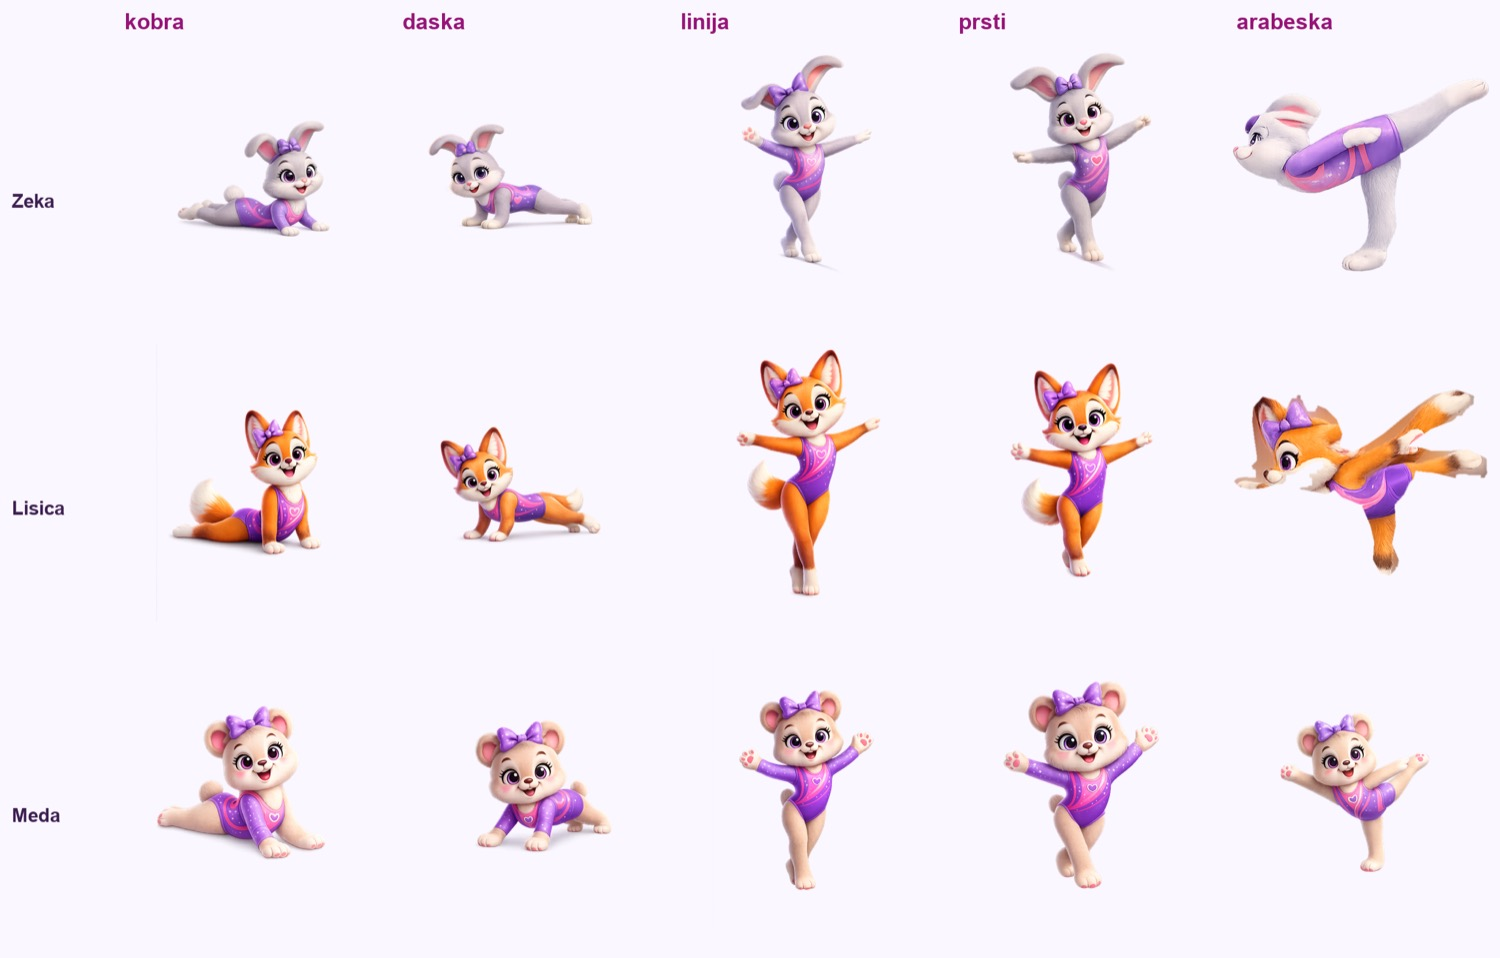
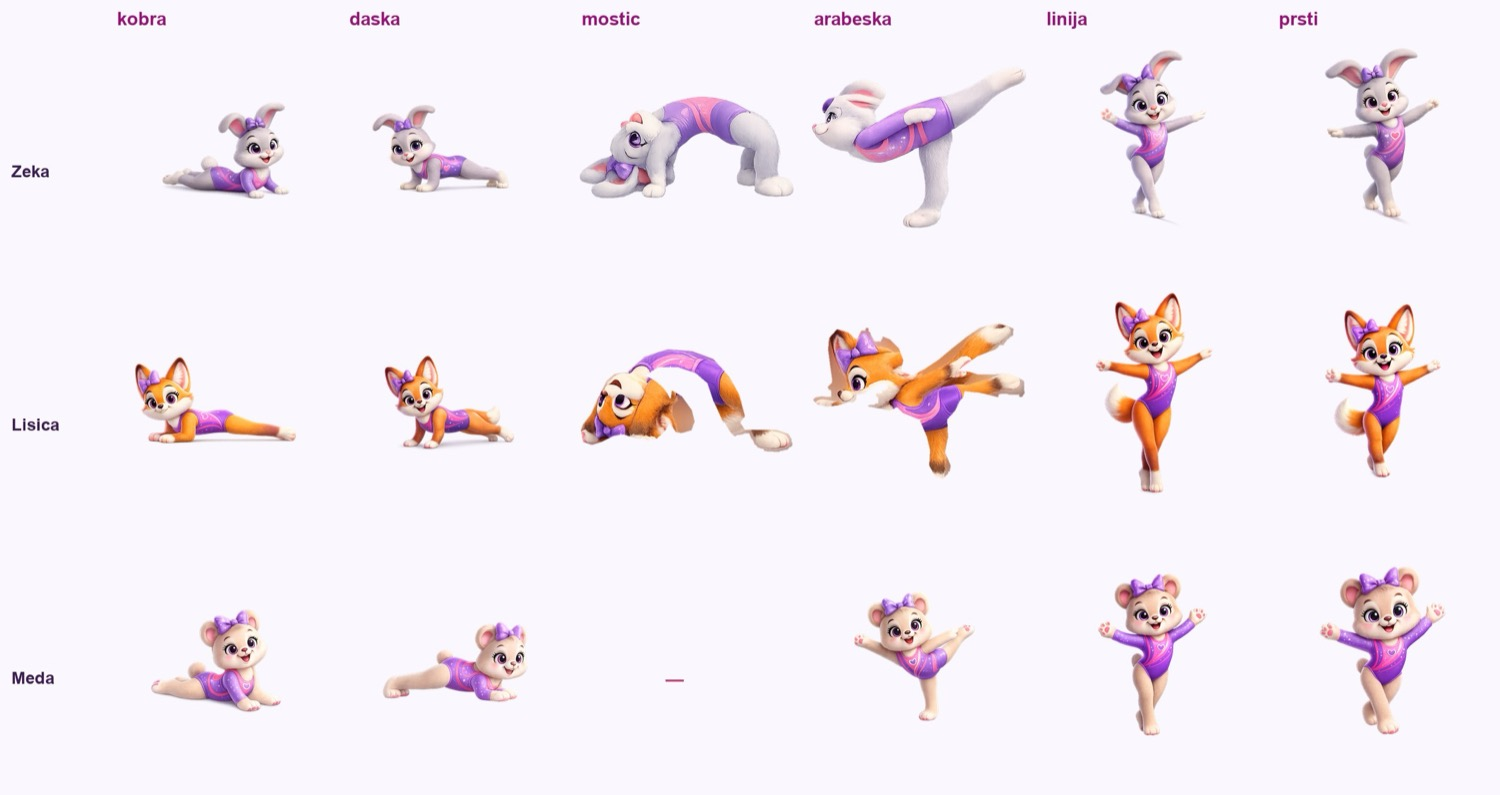
Third round: keep five, discard eleven
Of the eighteen new pictures, five were right: the fox's hero and portret now
have clean cutouts, and the fox's kobra, the bear's kobra and the bear's daska
are the right pose. The other eleven came back as a pose the model already
knew — a downward dog for the bridge, a one-leg balance for walking a line.
Parked under odbaceno/ rather than deleted.

The bridge, the arabesque, walking a line and tiptoes have now failed twice
from a text description each. The rabbit has the bridge and the arabesque
right, so STILL-NEEDED.md switches approach: attach the rabbit's picture as a
pose reference next to the character references, one pose per prompt, and say
which is which.

For linija and prsti it recommends fixing only linija. The problem is not that
they are imprecise, it is that the two exercises are the same picture.

Claude-Session: https://claude.ai/code/session_01SNYpafZCZg3ZNzoYw12rcy

diff --git a/Mascots/STILL-NEEDED.md b/Mascots/STILL-NEEDED.md
@@ -1,135 +1,168 @@
 # What still needs generating
 
-Everything outstanding, in three prompts — one per mascot. Copy a block, attach
-that mascot's reference images, send. Filenames to save under are listed below
-each block; overwrite the existing file where there is one.
+Round three. What arrived last time and what it fixed:
 
-This covers both the pictures that do not exist yet **and** the ones that exist
-but are wrong. `sumnjive.jpg` next to this file shows the wrong ones side by
-side if you want to see why.
+- **Fox `hero` and `portret`** — clean cutouts now. Fixed. ✅
+- **Fox `kobra`, bear `kobra`, bear `daska`** — right pose, clean cutout. ✅
+- Everything else in that batch came back as a pose the model already knew
+  rather than the one asked for, so eleven of eighteen files were discarded.
+  They are parked in `Mascots/<Species>/odbaceno/` if you want to look.
 
-## What is wrong, and why
+`sumnjive.jpg` next to this file shows the current state of the six poses that
+have been trouble, one row per mascot.
 
-| Picture | Problem | Rabbit | Fox | Bear |
-| --- | --- | :---: | :---: | :---: |
-| `mostic` | never generated for the bear; the fox's has a ragged cutout | ok | redo | **new** |
-| `cucanj` | never generated for the bear | ok | ok | **new** |
-| `kobra` | she is **sitting up** in all three. Cobra is lying on the tummy with the chest lifted and the hips down | redo | redo | redo |
-| `linija` | all three are **standing on one leg**. This one is walking heel-to-toe along a line | redo | redo | redo |
-| `prsti` | same — a one-leg balance instead of **standing on tiptoes on both feet**. As they are, `linija` and `prsti` are nearly the same picture | redo | redo | redo |
-| `arabeska` | the bear's leg goes out **sideways** with the body upright. The rabbit's is right — copy that shape | ok | redo (cutout) | redo |
-| `pretklon` | the fox is curled up with her eyes closed, reading as asleep rather than folding forward | ok | redo | ok |
-| `hero`, `portret` | the fox's two have the ragged cutout | ok | redo | ok |
-| `daska` | all three rest on **straight front legs**, not forearms. It still reads as a plank — lowest priority, only if you are generating anyway | optional | optional | optional |
+## The one thing to change this time
 
-**The fox's five newest files** (`mostic`, `arabeska`, `pretklon`, `hero`,
-`portret`) have a blocky patch of the old background baked into the
-transparency — it shows as a brown halo behind her, obvious at hero size. That
-is why the fox's block below spells the cutout out.
+Four poses have now failed twice from a text description: the **bridge**, the
+**arabesque**, **walking a line** and **tiptoes**. The model substitutes a pose
+it knows — usually a downward-dog or a one-leg balance.
 
-Everything not in this table is done and good.
+**The rabbit has the bridge and the arabesque right.** So stop describing them
+and show them instead: attach the rabbit's picture as a *pose* reference
+alongside the character references, and say which is which. That is the whole
+trick, and it is why the blocks below are one pose at a time rather than a
+batch.
 
 ---
 
-## RABBIT — 3 (or 4 with the optional one)
+## 1. FOX — bridge
 
-Attach: `rabbit-sit.png`, `rabbit-arabeska.png`, `rabbit-spaga.png`
+Attach **two** things: `Mascots/Rabbit/rabbit-mostic.png` (the pose) and
+`Mascots/Fox/fox-sit.png` + `fox-zvezdice.png` (the character).
 
 ```
-Continue the gymnastics mascot asset project. One mascot and one pose per image, with no text, table, grid, labels, extra poses, or other characters. Preserve the exact face, fur, purple bow, purple-and-pink sparkly leotard, proportions, and 3D style.
+Two kinds of reference are attached. The FIRST image shows the POSE I want, on a different character. The OTHER images show the CHARACTER I want.
 
-The background must be FULLY transparent with a clean edge: no leftover patches of background, no rectangular blocks, no halo or fringe around the fur, nothing behind the character at all.
+Draw the fox from the character references in exactly the pose of the first image: a gymnastics backbend bridge — lying face up, tummy pointing at the ceiling, body arched high off the floor, all four paws flat on the floor, head tilted back, seen from the side. Not a downward dog, not face down.
 
-Using the attached reference images, create 4 separate images of the same character — a 3D Pixar-style cartoon bunny gymnast: white and pale lavender fur, long ears with pink insides, large violet eyes with long lashes, small pink nose, pink paw pads, a purple glitter bow on one ear, and a purple and pink gymnastics leotard with a heart on the chest.
-
-Same style, colours and proportions as the references. Full body in frame, head to toe, nothing cropped, generous margin all round. One pose per image:
-
-1. Cobra stretch: lying flat on her TUMMY, hips and legs staying down on the floor, chest lifted up on straight front paws, back gently arched, head up looking forward, side view.
-2. Walking heel-to-toe along a straight line on the floor: BOTH feet on the ground, one placed directly in front of the other, both arms stretched out sideways for balance, looking down at the line, front view.
-3. Standing on tiptoes on BOTH feet at once, heels lifted high off the floor, legs straight and together, both arms stretched out to the sides, chin up, front view.
-4. Forearm plank: resting on BOTH FOREARMS flat on the floor and on her toes, elbows under the shoulders, body in one straight line from head to heels, hips level, side view.
+Keep her exact face, orange fur with the white muzzle and white-tipped tail, purple bow and purple-and-pink sparkly leotard, same 3D Pixar style. Full body in frame, nothing cropped, generous margin. Fully transparent background with a clean edge — no leftover patches, no halo, nothing behind her.
 ```
 
-Save as: `rabbit-kobra.png`, `rabbit-linija.png`, `rabbit-prsti.png`,
-`rabbit-daska.png`
+Save as `fox-mostic.png` (overwrite).
+
+## 2. FOX — arabesque
+
+Attach `Mascots/Rabbit/rabbit-arabeska.png` (pose) + `fox-sit.png`,
+`fox-zvezdice.png` (character). Same wording, with the pose line:
+
+```
+Two kinds of reference are attached. The FIRST image shows the POSE I want, on a different character. The OTHER images show the CHARACTER I want.
+
+Draw the fox from the character references in exactly the pose of the first image: an arabesque — balancing on one straight leg with the other leg stretched straight out BEHIND her at hip height, body tipped forward almost horizontal, both arms out to the sides. Not a leg lifted to the side, not standing upright.
+
+Keep her exact face, orange fur with the white muzzle and white-tipped tail, purple bow and purple-and-pink sparkly leotard, same 3D Pixar style. Full body in frame, nothing cropped, generous margin. Fully transparent background with a clean edge — no leftover patches, no halo, nothing behind her.
+```
+
+Save as `fox-arabeska.png` (overwrite).
+
+## 3. FOX — seated forward fold
+
+No good reference exists for this one; the current file is her curled up asleep
+and has the ragged cutout. Attach `fox-sit.png` and `fox-spaga.png`.
+
+```
+Using the attached reference images, draw the same fox cub character sitting upright on the floor with BOTH LEGS STRAIGHT OUT IN FRONT of her, eyes open and awake, folding forward from the hips with both paws reaching toward her toes, seen from the side. She is sitting up and bending forward — not lying down, not curled up, not asleep.
+
+Keep her exact face, orange fur with the white muzzle and white-tipped tail, purple bow and purple-and-pink sparkly leotard, same 3D Pixar style. Full body in frame, nothing cropped, generous margin. Fully transparent background with a clean edge — no leftover patches, no halo, nothing behind her.
+```
+
+Save as `fox-pretklon.png` (overwrite).
 
 ---
 
-## FOX — 8 (or 9 with the optional one)
+## 4. BEAR — bridge
 
-Attach: `fox-sit.png`, `fox-zvezdice.png`, `fox-spaga.png` — the **older**
-files, which are cut out cleanly, not the five being replaced.
+Attach `Mascots/Rabbit/rabbit-mostic.png` (pose) + `bear-sit.png`,
+`bear-zvezdice.png` (character).
 
 ```
-Continue the gymnastics mascot asset project. One mascot and one pose per image, with no text, table, grid, labels, extra poses, or other characters. Preserve the exact face, fur, purple bow, purple-and-pink sparkly leotard, proportions, and 3D style.
+Two kinds of reference are attached. The FIRST image shows the POSE I want, on a different character. The OTHER images show the CHARACTER I want.
 
-The background must be FULLY transparent with a clean edge: no leftover patches of background, no rectangular blocks, no halo or fringe around the fur, nothing behind the character at all. This matters — the previous batch came back with pieces of the old background still attached.
+Draw the bear cub from the character references in exactly the pose of the first image: a gymnastics backbend bridge — lying face up, tummy pointing at the ceiling, body arched high off the floor, all four paws flat on the floor, head tilted back, seen from the side. Not a downward dog, not face down.
 
-Using the attached reference images, create 9 separate images of the same character — a 3D Pixar-style cartoon fox cub gymnast: orange fur with a white muzzle, white chest and a white-tipped bushy tail, large violet eyes with long lashes, pink paw pads, a purple glitter bow between her ears, and a purple and pink gymnastics leotard with a heart on the chest.
-
-Same style, colours and proportions as the references. Full body in frame, head to toe, nothing cropped, generous margin all round. One pose per image:
-
-1. Gymnastics backbend bridge: lying face up, tummy pointing at the ceiling, body arched high off the floor, all four paws flat on the floor, head tilted back, side view.
-2. Arabesque: balancing on one straight leg, the other leg stretched straight out BEHIND her at hip height, body tipped forward, both arms out to the sides, side view.
-3. Seated forward fold: sitting upright with both legs straight out in front, eyes OPEN and awake, folding forward from the hips, both paws reaching toward her toes, side view.
-4. Standing proudly facing the camera, one arm raised high in a happy wave, the other on her hip, chin up, big warm smile, tall portrait framing with room above her head.
-5. Head and shoulders only, facing the camera straight on, big friendly smile, ears fully in frame, square framing.
-6. Cobra stretch: lying flat on her TUMMY, hips and legs staying down on the floor, chest lifted up on straight front paws, back gently arched, head up looking forward, side view.
-7. Walking heel-to-toe along a straight line on the floor: BOTH feet on the ground, one placed directly in front of the other, both arms stretched out sideways for balance, looking down at the line, front view.
-8. Standing on tiptoes on BOTH feet at once, heels lifted high off the floor, legs straight and together, both arms stretched out to the sides, chin up, front view.
-9. Forearm plank: resting on BOTH FOREARMS flat on the floor and on her toes, elbows under the shoulders, body in one straight line from head to heels, hips level, side view.
+Keep her exact face, cream and beige fur, pink inner ears and paw pads, purple bow and purple-and-pink sparkly leotard, same 3D Pixar style. Full body in frame, nothing cropped, generous margin. Fully transparent background with a clean edge.
 ```
 
-Save as, in order: `fox-mostic.png`, `fox-arabeska.png`, `fox-pretklon.png`,
-`fox-hero.png`, `fox-portret.png`, `fox-kobra.png`, `fox-linija.png`,
-`fox-prsti.png`, `fox-daska.png`
+Save as `bear-mostic.png` (new).
+
+## 5. BEAR — arabesque
+
+Attach `Mascots/Rabbit/rabbit-arabeska.png` (pose) + `bear-sit.png`,
+`bear-zvezdice.png` (character).
+
+```
+Two kinds of reference are attached. The FIRST image shows the POSE I want, on a different character. The OTHER images show the CHARACTER I want.
+
+Draw the bear cub from the character references in exactly the pose of the first image: an arabesque — balancing on one straight leg with the other leg stretched straight out BEHIND her at hip height, body tipped forward almost horizontal, both arms out to the sides. Not a leg lifted to the side, not standing upright.
+
+Keep her exact face, cream and beige fur, pink inner ears and paw pads, purple bow and purple-and-pink sparkly leotard, same 3D Pixar style. Full body in frame, nothing cropped, generous margin. Fully transparent background with a clean edge.
+```
+
+Save as `bear-arabeska.png` (overwrite).
+
+## 6. BEAR — half squat
+
+Attach `bear-sit.png`, `bear-zvezdice.png`.
+
+```
+Using the attached reference images, draw the same bear cub character standing in a HALF SQUAT: feet apart, knees clearly bent as if sitting on an invisible chair, back straight, and BOTH ARMS STRETCHED STRAIGHT FORWARD toward the camera at shoulder height, parallel to the floor. Arms forward, not up, not out to the sides.
+
+Keep her exact face, cream and beige fur, pink inner ears and paw pads, purple bow and purple-and-pink sparkly leotard, same 3D Pixar style. Full body in frame, nothing cropped, generous margin. Fully transparent background with a clean edge.
+```
+
+Save as `bear-cucanj.png` (new).
 
 ---
 
-## BEAR — 6 (or 7 with the optional one)
+## 7. Walking the line, and tiptoes — all three
 
-Attach: `bear-sit.png`, `bear-zvezdice.png`, `bear-macka.png`
+These two have failed twice for every mascot, and there is no correct picture
+anywhere to use as a pose reference. Right now `linija` and `prsti` are the same
+one-leg balance in all three sets, which is the real problem — not that they are
+imprecise, but that the two exercises look identical.
+
+**My suggestion: fix only `linija`, and leave `prsti` alone.** A one-leg
+balance is a perfectly reasonable picture for "balance on tiptoes" to a
+seven-year-old; two identical pictures for two different exercises is what
+looks wrong.
+
+One prompt per mascot, swapping in that mascot's own description:
 
 ```
-Continue the gymnastics mascot asset project. One mascot and one pose per image, with no text, table, grid, labels, extra poses, or other characters. Preserve the exact face, fur, purple bow, purple-and-pink sparkly leotard, proportions, and 3D style.
+Using the attached reference images, draw the same character walking along a straight line marked on the floor, seen from the FRONT. Both feet are flat on the ground, one placed directly in front of the other, heel touching toe, both standing on the same straight line. Both arms are stretched out sideways at shoulder height for balance. She is looking down at the line, concentrating, with a small smile.
 
-The background must be FULLY transparent with a clean edge: no leftover patches of background, no rectangular blocks, no halo or fringe around the fur, nothing behind the character at all.
+Both feet on the floor — this is walking, not balancing on one leg.
 
-Using the attached reference images, create 7 separate images of the same character — a 3D Pixar-style cartoon bear cub gymnast: cream and beige fur, rounded ears with pink inner ears, large violet eyes with long lashes, pink paw pads, a purple glitter bow on one ear, and a purple and pink gymnastics leotard with a heart on the chest.
-
-Same style, colours and proportions as the references. Full body in frame, head to toe, nothing cropped, generous margin all round. One pose per image:
-
-1. Gymnastics backbend bridge: lying face up, tummy pointing at the ceiling, body arched high off the floor, all four paws flat on the floor, head tilted back, side view.
-2. Half squat: standing, feet apart, knees bent, back straight, both arms stretched straight FORWARD at shoulder height, facing the camera.
-3. Arabesque: balancing on one straight leg, the other leg stretched straight out BEHIND her at hip height — not out to the side — with the body tipped forward and both arms out to the sides, side view.
-4. Cobra stretch: lying flat on her TUMMY, hips and legs staying down on the floor, chest lifted up on straight front paws, back gently arched, head up looking forward, side view.
-5. Walking heel-to-toe along a straight line on the floor: BOTH feet on the ground, one placed directly in front of the other, both arms stretched out sideways for balance, looking down at the line, front view.
-6. Standing on tiptoes on BOTH feet at once, heels lifted high off the floor, legs straight and together, both arms stretched out to the sides, chin up, front view.
-7. Forearm plank: resting on BOTH FOREARMS flat on the floor and on her toes, elbows under the shoulders, body in one straight line from head to heels, hips level, side view.
+Keep her exact face, fur, purple bow and purple-and-pink sparkly leotard, same 3D Pixar style. Full body in frame, nothing cropped, generous margin. Fully transparent background with a clean edge.
 ```
 
-Save as, in order: `bear-mostic.png`, `bear-cucanj.png`, `bear-arabeska.png`,
-`bear-kobra.png`, `bear-linija.png`, `bear-prsti.png`, `bear-daska.png`
+Save as `rabbit-linija.png` / `fox-linija.png` / `bear-linija.png` (overwrite).
 
 ---
 
-## If a result comes back wrong
+## Where everything stands
 
-- **On a background instead of transparent, or with a patch of it still stuck
-  to her:** *"Same images but with a fully transparent background — PNG with
-  alpha, nothing behind the character at all, no leftover patches, clean edge
-  around the fur."*
-- **Cut off at the edge:** *"Zoom out — the whole body from ears to toes must be
-  inside the frame with a margin."*
-- **Drifting off-model:** attach one more reference from the same folder and say
-  *"keep the face, fur colour and leotard exactly as in the references."*
-- **Cobra keeps coming back sitting up:** *"She is lying face down on the floor.
-  Her hips and back legs stay flat on the ground; only her chest and head lift."*
+| | Poses | States | What is left |
+| --- | --- | --- | --- |
+| Rabbit | 19/19 | 5/5 | `linija` only, and only for the reason above |
+| Fox | 19/19 | 5/5 | `mostic`, `arabeska`, `pretklon` — right pose in two of them, but ragged cutouts; plus `linija` |
+| Bear | 17/19 | 5/5 | `mostic`, `cucanj` missing; `arabeska` wrong pose; plus `linija` |
+
+Nothing here blocks anything: the app runs on all three mascots today, and the
+bear's two missing poses fall back to the drawn figure.
+
+## If a result still comes back wrong
+
+- **Wrong pose again:** *"Look at the first reference image. Copy that exact
+  body position. Only the character changes."*
+- **A patch of background stuck to her:** *"Fully transparent background, clean
+  edge around the fur, nothing behind the character."*
+- **Cut off:** *"Zoom out — the whole body inside the frame with a margin."*
 
 ## When they arrive
 
-Drop each file into its mascot's folder under the name above, overwriting what
-is there, and tell me. One command rebuilds everything the app ships:
+Drop each into its mascot's folder under the name above, overwriting what is
+there, and tell me. One command rebuilds what the app ships:
 
 ```bash
 python3 tools/build-mascots.py

diff --git a/Mascots/MASCOTS.md b/Mascots/MASCOTS.md
@@ -12,21 +12,14 @@ been changed yet.
 
 Where each set stands, counting only what actually ships:
 
-| | Exercise poses (of 19) | Mascot states (of 5) | Usable? |
+| | Exercise poses (of 19) | Mascot states (of 5) | What is left |
 | --- | --- | --- | --- |
-| Rabbit | **19** | **5** | yes — complete |
-| Fox | 19 | 5 | complete, but **five files have a bad cutout** |
-| Bear | 17 | **5** | yes — only `mostic` and `cucanj` fall back to the drawing |
+| Rabbit | **19** | **5** | `linija` — it is the same one-leg balance as `prsti` |
+| Fox | **19** | **5** | `mostic`, `arabeska`, `pretklon` have ragged cutouts |
+| Bear | 17 | **5** | `mostic` and `cucanj` missing, `arabeska` wrong pose |
 
-**The bear** now has everything except the bridge (`mostic`) and the half squat
-(`cucanj`). It is perfectly choosable: those two exercises show the drawn figure
-and nothing else does.
-
-**The fox's five newest files** (`mostic`, `arabeska`, `pretklon`, `hero`,
-`portret`) came back with the background removal done badly: a blocky, ragged
-patch of the old background is baked into the alpha and shows as a brown halo
-behind her, obvious at hero size. They need generating again — the prompt is in
-`PROMPTS.md`.
+All three are usable today; anything missing falls back to the drawn figure.
+**`STILL-NEEDED.md` is the working list** — it carries the prompts.
 
 ## Naming
 
